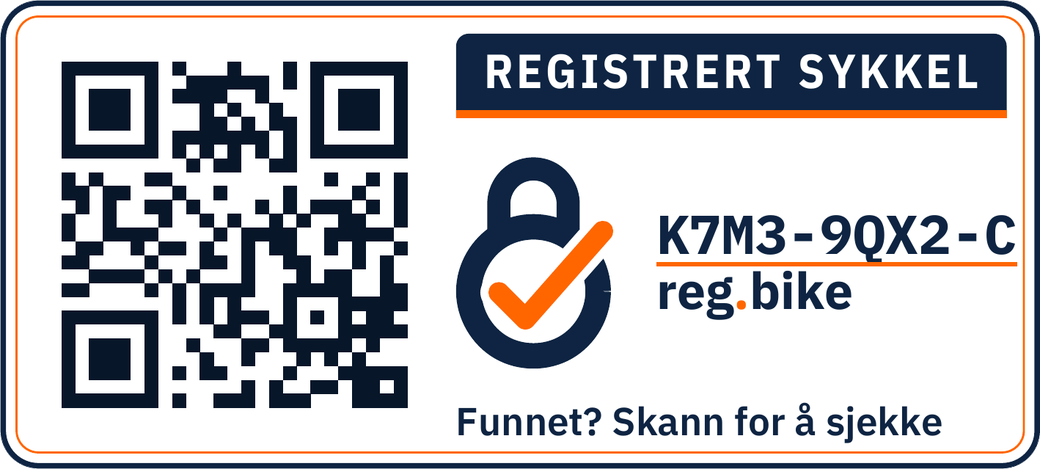
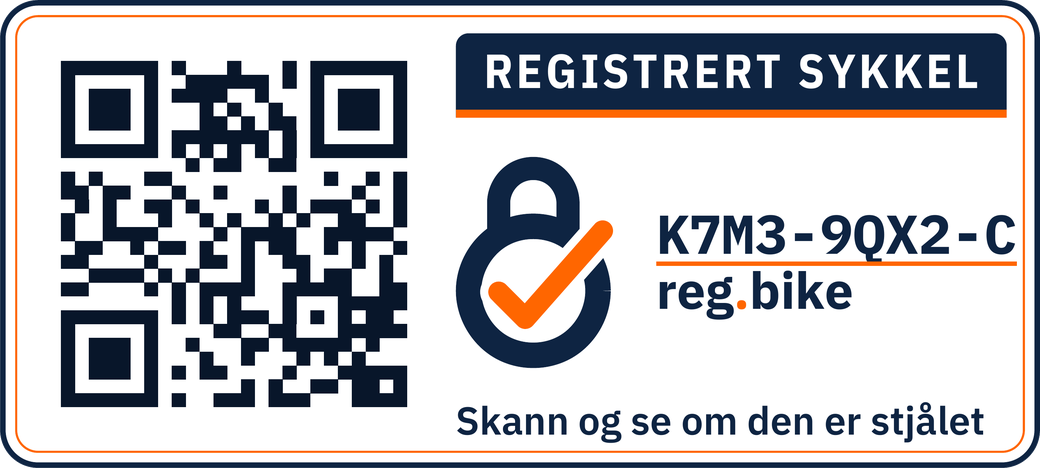
Norwegian copy review: natural bokmål, new sticker texts in images

diff --git a/index.html b/index.html
@@ -6,7 +6,7 @@
 <meta http-equiv="Content-Security-Policy" content="default-src 'none'; img-src 'self' data:; style-src 'self'; font-src 'self'; manifest-src 'self'; base-uri 'none'; form-action 'none'">
 <meta name="referrer" content="strict-origin-when-cross-origin">
 <title>reg.bike – norsk sykkelregister · Kommer snart</title>
-<meta name="description" content="Registrer sykkelen med rammenummer og få et unikt QR-merke. Alle som finner eller vil kjøpe sykkelen, kan sjekke om den er registrert eller meldt stjålet. Kommer snart.">
+<meta name="description" content="Registrer sykkelen og rammenummeret, og få ditt eget QR-merke. Alle som finner sykkelen eller vil kjøpe den, kan sjekke om den er meldt stjålet. Kommer snart.">
 <link rel="canonical" href="https://reg.bike/">
 <link rel="alternate" hreflang="nb" href="https://reg.bike/">
 <link rel="alternate" hreflang="en" href="https://reg.bike/en/">
@@ -15,19 +15,19 @@
 <meta property="og:site_name" content="reg.bike">
 <meta property="og:url" content="https://reg.bike/">
 <meta property="og:title" content="reg.bike – Registrert. Sporbar. Din.">
-<meta property="og:description" content="Registrer sykkelen med rammenummer og få et unikt QR-merke. Alle som finner eller vil kjøpe sykkelen, kan sjekke om den er registrert eller meldt stjålet. Kommer snart.">
+<meta property="og:description" content="Registrer sykkelen og rammenummeret, og få ditt eget QR-merke. Alle som finner sykkelen eller vil kjøpe den, kan sjekke om den er meldt stjålet. Kommer snart.">
 <meta property="og:locale" content="nb_NO">
 <meta property="og:locale:alternate" content="en_GB">
 <meta property="og:image" content="https://reg.bike/og-image.png">
 <meta property="og:image:type" content="image/png">
 <meta property="og:image:width" content="1200">
 <meta property="og:image:height" content="630">
-<meta property="og:image:alt" content="reg.bike-logo og et QR-merke for sykkel med teksten «Registrert. Sporbar. Din.»">
+<meta property="og:image:alt" content="reg.bike-logoen og et QR-merke til sykkelen med teksten «Registrert. Sporbar. Din.»">
 <meta name="twitter:card" content="summary_large_image">
 <meta name="twitter:title" content="reg.bike – Registrert. Sporbar. Din.">
-<meta name="twitter:description" content="Registrer sykkelen med rammenummer og få et unikt QR-merke. Alle som finner eller vil kjøpe sykkelen, kan sjekke om den er registrert eller meldt stjålet. Kommer snart.">
+<meta name="twitter:description" content="Registrer sykkelen og rammenummeret, og få ditt eget QR-merke. Alle som finner sykkelen eller vil kjøpe den, kan sjekke om den er meldt stjålet. Kommer snart.">
 <meta name="twitter:image" content="https://reg.bike/og-image.png">
-<meta name="twitter:image:alt" content="reg.bike-logo og et QR-merke for sykkel med teksten «Registrert. Sporbar. Din.»">
+<meta name="twitter:image:alt" content="reg.bike-logoen og et QR-merke til sykkelen med teksten «Registrert. Sporbar. Din.»">
 <meta name="theme-color" content="#0E2442">
 <link rel="preload" href="fonts/IBMPlexSans-Bold.woff2" as="font" type="font/woff2" crossorigin>
 <link rel="stylesheet" href="style.css">
@@ -37,15 +37,15 @@
 <link rel="manifest" href="site.webmanifest">
 </head>
 <body>
-<a class="skip" href="#main">Hopp til innhold</a>
+<a class="skip" href="#main">Gå til hovedinnholdet</a>
 <header class="top">
   <div class="wrap bar">
     <a class="brand" href="./" aria-label="reg.bike – til forsiden"><img src="img/lockup.svg" alt="reg.bike" width="128" height="35"></a>
     <nav aria-label="Hovedmeny">
      <ul class="nav">
-      <li class="hide-sm"><a href="#slik">Slik virker det</a></li>
+      <li class="hide-sm"><a href="#slik">Slik fungerer det</a></li>
       <li class="hide-sm"><a href="#fordeler">Fordeler</a></li>
-      <li class="hide-sm"><a href="#merket">Merket</a></li>
+      <li class="hide-sm"><a href="#merket">Klistremerket</a></li>
       <li class="hide-sm"><a href="#personvern">Personvern</a></li>
       <li><a class="lang" href="en/" hreflang="en" lang="en" aria-label="Read this page in English">English</a></li>
       <li><a class="btn" href="#beskjed">Få beskjed</a></li>
@@ -59,18 +59,18 @@
     <div>
       <p class="soon">Kommer snart</p>
       <p class="slogan">Registrert. Sporbar. Din.</p>
-      <h1 id="hero-title">Registrer sykkelen din. Få den tilbake.</h1>
-      <p class="lead">reg.bike er et nytt norsk sykkelregister. Registrer rammenummeret, fest et QR-merke på sykkelen, og la alle som finner den eller vurderer å kjøpe den, sjekke på sekunder om den er meldt stjålet.</p>
+      <h1 id="hero-title">Registrer sykkelen. Få den igjen hvis den blir stjålet.</h1>
+      <p class="lead">reg.bike er et nytt norsk sykkelregister. Du registrerer rammenummeret og fester et QR-merke på sykkelen. Da kan alle som finner den eller vil kjøpe den, sjekke på sekunder om den er meldt stjålet.</p>
       <div class="actions">
-        <a class="btn" href="mailto:post@reg.bike?subject=Gi%20meg%20beskjed%20n%C3%A5r%20reg.bike%20lanserer&amp;body=Hei%21%0A%0AGi%20meg%20beskjed%20n%C3%A5r%20jeg%20kan%20registrere%20sykkelen%20min%20p%C3%A5%20reg.bike.%0A%0A"><svg width="20" height="20" viewBox="0 0 20 20" aria-hidden="true" focusable="false"><rect x="2" y="4" width="16" height="12" rx="2" fill="none" stroke="currentColor" stroke-width="1.9"/><path d="M2.8 5.2L10 11l7.2-5.8" fill="none" stroke="currentColor" stroke-width="1.9" stroke-linejoin="round"/></svg>Få beskjed når vi lanserer</a>
-        <a class="btn ghost" href="#slik">Slik virker det</a>
+        <a class="btn" href="mailto:post@reg.bike?subject=Gi%20meg%20beskjed%20n%C3%A5r%20reg.bike%20%C3%A5pner&amp;body=Hei%21%0A%0AGi%20meg%20beskjed%20n%C3%A5r%20jeg%20kan%20registrere%20sykkelen%20min%20p%C3%A5%20reg.bike.%0A%0A"><svg width="20" height="20" viewBox="0 0 20 20" aria-hidden="true" focusable="false"><rect x="2" y="4" width="16" height="12" rx="2" fill="none" stroke="currentColor" stroke-width="1.9"/><path d="M2.8 5.2L10 11l7.2-5.8" fill="none" stroke="currentColor" stroke-width="1.9" stroke-linejoin="round"/></svg>Få beskjed når vi åpner</a>
+        <a class="btn ghost" href="#slik">Slik fungerer det</a>
       </div>
-      <p class="fine">Gratis å registrere. Ingen app – kameraet på mobilen holder.</p>
+      <p class="fine">Gratis å registrere. Du trenger ingen app, bare kameraet på mobilen.</p>
     </div>
     <div class="tube">
       <picture>
         <source type="image/webp" srcset="img/sticker-portrait-30x60-color.webp 1x, img/sticker-portrait-30x60-color@2x.webp 2x">
-        <img src="img/sticker-portrait-30x60-color.png" srcset="img/sticker-portrait-30x60-color@2x.png 2x" width="300" height="621" alt="Eksempel på et stående reg.bike-merke på et seterør: «Tyverisikret registrert», sykkel-ID K7M3-9QX2-C, QR-kode og teksten «Funnet? Skann for å finne eieren»." fetchpriority="high">
+        <img src="img/sticker-portrait-30x60-color.png" srcset="img/sticker-portrait-30x60-color@2x.png 2x" width="300" height="622" alt="Eksempel på et stående reg.bike-merke til seterøret: «Registrert · Sporbar», sykkel-ID K7M3-9QX2-C, QR-kode og teksten «Funnet sykkelen? Skann og kontakt eieren»." fetchpriority="high">
       </picture>
     </div>
   </div>
@@ -78,16 +78,16 @@
 
 <section class="section" id="slik" aria-labelledby="how-title">
   <div class="wrap">
-    <p class="kicker">Slik virker det</p>
-    <h2 id="how-title">Tre steg fra rammenummer til merket sykkel</h2>
-    <p class="intro">Det tar et par minutter å registrere en sykkel. Merket gjør resten.</p>
+    <p class="kicker">Slik fungerer det</p>
+    <h2 id="how-title">Tre steg, så er sykkelen merket</h2>
+    <p class="intro">Registreringen tar et par minutter. Etter det gjør klistremerket jobben.</p>
     <ol class="steps">
       <li class="step"><span class="num" aria-hidden="true">01</span><span class="icon"><svg viewBox="0 0 32 32" aria-hidden="true" focusable="false"><rect x="6" y="4" width="17" height="24" rx="2.5" fill="none" stroke="#FFFFFF" stroke-width="2.2"/><path d="M10.5 10.5h8M10.5 15h8M10.5 19.5h4.5" stroke="#FFFFFF" stroke-width="2.2" stroke-linecap="round"/><path d="M19.5 25.5l7.8-7.8 2.4 2.4-7.8 7.8-3.2.8z" fill="#FF6600"/></svg></span>
-        <h3>Registrer</h3><p>Lag en konto og legg inn merke, modell, farge, rammenummer og bilder av sykkelen.</p></li>
+        <h3>Registrer</h3><p>Opprett en konto og legg inn merke, modell, farge, rammenummer og bilder av sykkelen.</p></li>
       <li class="step"><span class="num" aria-hidden="true">02</span><span class="icon"><svg viewBox="0 0 32 32" aria-hidden="true" focusable="false"><rect x="4" y="4" width="24" height="24" rx="4" fill="none" stroke="#FFFFFF" stroke-width="2.2"/><rect x="8.5" y="8.5" width="6" height="6" fill="#FFFFFF"/><rect x="17.5" y="8.5" width="6" height="6" fill="#FFFFFF"/><rect x="8.5" y="17.5" width="6" height="6" fill="#FFFFFF"/><path d="M17.5 17.5h2.5v2.5h-2.5zM21 21h2.5v2.5H21z" fill="#FF6600"/></svg></span>
-        <h3>Merk sykkelen</h3><p>Du får et unikt QR-merke. Skriv det ut selv, eller bestill slitesterke merker i posten, og fest det på rammen.</p></li>
+        <h3>Merk sykkelen</h3><p>Du får ditt eget QR-merke. Skriv det ut selv, eller bestill slitesterke klistremerker som vi sender i posten. Fest merket på rammen.</p></li>
       <li class="step"><span class="num" aria-hidden="true">03</span><span class="icon"><svg viewBox="0 0 32 32" aria-hidden="true" focusable="false"><rect x="8" y="3" width="16" height="26" rx="3" fill="none" stroke="#FFFFFF" stroke-width="2.2"/><path d="M14 25.5h4" stroke="#FFFFFF" stroke-width="2" stroke-linecap="round"/><path d="M11.5 14.5l3 3 6-6.5" fill="none" stroke="#FF6600" stroke-width="2.8" stroke-linecap="round" stroke-linejoin="round"/></svg></span>
-        <h3>Skann og sjekk</h3><p>Alle kan skanne merket eller søke opp koden og se med en gang om sykkelen er registrert eller meldt stjålet.</p></li>
+        <h3>Skann og sjekk</h3><p>Alle kan skanne merket eller slå opp koden og se med en gang om sykkelen er registrert eller meldt stjålet.</p></li>
     </ol>
   </div>
 </section>
@@ -95,11 +95,11 @@
 <section class="section alt" id="fordeler" aria-labelledby="ben-title">
   <div class="wrap">
     <p class="kicker">Fordeler</p>
-    <h2 id="ben-title">Nyttig for alle som har med sykler å gjøre</h2>
-    <p class="intro">Ett merke på rammen hjelper eieren, den som finner sykkelen og den som vil kjøpe den.</p>
+    <h2 id="ben-title">Til nytte for eier, finner og kjøper</h2>
+    <p class="intro">Ett klistremerke på rammen gjør det enklere for alle tre.</p>
     <div class="cards">
-      <article class="card owner"><h3>For deg som eier sykkelen</h3><ul><li>Rammenummer, bilder og kjennetegn samlet på ett sted</li><li>Meld sykkelen stjålet – alle som skanner den, ser det med en gang</li><li>Merket viser at sykkelen er registrert og sporbar</li><li>Alt klart når du skal anmelde tyveriet til politiet</li></ul></article>
-      <article class="card finder"><h3>For deg som finner en sykkel</h3><ul><li>Skann merket med mobilkameraet – ingen app trengs</li><li>Se om sykkelen er meldt stjålet</li><li>Send eieren en melding gjennom reg.bike uten å se hvem eieren er</li></ul></article>
+      <article class="card owner"><h3>For deg som eier sykkelen</h3><ul><li>Rammenummer, bilder og kjennetegn samlet på ett sted</li><li>Meld sykkelen stjålet – alle som skanner den, ser det med en gang</li><li>Merket viser at sykkelen er registrert og kan spores</li><li>Alle opplysningene er klare når du anmelder tyveriet</li></ul></article>
+      <article class="card finder"><h3>For deg som finner en sykkel</h3><ul><li>Skann merket med mobilkameraet – du trenger ingen app</li><li>Se om sykkelen er meldt stjålet</li><li>Send eieren en melding via reg.bike – eieren forblir anonym</li></ul></article>
       <article class="card buyer"><h3>For deg som kjøper brukt</h3><ul><li>Sjekk koden eller rammenummeret før du betaler</li><li>Se om sykkelen er meldt stjålet</li><li>Tryggere handel for både kjøper og selger</li></ul></article>
     </div>
   </div>
@@ -108,13 +108,13 @@
 <section class="section" id="merket" aria-labelledby="st-title">
   <div class="wrap sticker-grid">
     <div>
-      <p class="kicker">Merket</p>
-      <h2 id="st-title">Et merke tyven ser</h2>
-      <p class="intro">Hver sykkel får sin egen kode. Merket finnes i stående format til seterøret og i liggende format.</p>
+      <p class="kicker">Klistremerket</p>
+      <h2 id="st-title">Et tydelig signal til tyven</h2>
+      <p class="intro">Hver sykkel får sin egen kode. Merket finnes i to formater: stående, som passer på seterøret, og liggende.</p>
       <ul class="facts">
-        <li><svg viewBox="0 0 26 26" aria-hidden="true" focusable="false"><rect x="2" y="2" width="9" height="9" rx="1" fill="none" stroke="#0E2442" stroke-width="2"/><rect x="15" y="2" width="9" height="9" rx="1" fill="none" stroke="#0E2442" stroke-width="2"/><rect x="2" y="15" width="9" height="9" rx="1" fill="none" stroke="#0E2442" stroke-width="2"/><path d="M15 15h3v3h-3zM21 15h3v3h-3zM18 18h3v3h-3zM15 21h3v3h-3zM21 21h3v3h-3z" fill="#FF6600"/></svg><div><strong>Unik kode for hver sykkel</strong>QR-koden går til <span class="url">reg.bike/id/&lt;kode&gt;</span>. Koden står også i klartekst, så den kan tastes inn.</div></li>
-        <li><svg viewBox="0 0 26 26" aria-hidden="true" focusable="false"><path d="M13 2.5C9 8 6 11.8 6 15.6a7 7 0 0 0 14 0C20 11.8 17 8 13 2.5z" fill="none" stroke="#0E2442" stroke-width="2" stroke-linejoin="round"/><path d="M9.8 15.8l2.3 2.3 4.3-4.8" fill="none" stroke="#FF6600" stroke-width="2.4" stroke-linecap="round" stroke-linejoin="round"/></svg><div><strong>Laget for å sitte på en sykkel</strong>Bestill slitesterke merker i posten, eller skriv dem ut gratis hjemme.</div></li>
-        <li><svg viewBox="0 0 26 26" aria-hidden="true" focusable="false"><rect x="6" y="2" width="14" height="22" rx="2.5" fill="none" stroke="#0E2442" stroke-width="2"/><circle cx="13" cy="11" r="3.4" fill="none" stroke="#FF6600" stroke-width="2"/><path d="M11 20.5h4" stroke="#0E2442" stroke-width="2" stroke-linecap="round"/></svg><div><strong>Virker med alle mobilkameraer</strong>Ingen app å laste ned. Den som skanner, ser statusen rett i nettleseren:</div></li>
+        <li><svg viewBox="0 0 26 26" aria-hidden="true" focusable="false"><rect x="2" y="2" width="9" height="9" rx="1" fill="none" stroke="#0E2442" stroke-width="2"/><rect x="15" y="2" width="9" height="9" rx="1" fill="none" stroke="#0E2442" stroke-width="2"/><rect x="2" y="15" width="9" height="9" rx="1" fill="none" stroke="#0E2442" stroke-width="2"/><path d="M15 15h3v3h-3zM21 15h3v3h-3zM18 18h3v3h-3zM15 21h3v3h-3zM21 21h3v3h-3z" fill="#FF6600"/></svg><div><strong>Unik kode for hver sykkel</strong>QR-koden åpner <span class="url">reg.bike/id/&lt;kode&gt;</span>. Koden står også i klartekst, så du kan skrive den inn selv.</div></li>
+        <li><svg viewBox="0 0 26 26" aria-hidden="true" focusable="false"><path d="M13 2.5C9 8 6 11.8 6 15.6a7 7 0 0 0 14 0C20 11.8 17 8 13 2.5z" fill="none" stroke="#0E2442" stroke-width="2" stroke-linejoin="round"/><path d="M9.8 15.8l2.3 2.3 4.3-4.8" fill="none" stroke="#FF6600" stroke-width="2.4" stroke-linecap="round" stroke-linejoin="round"/></svg><div><strong>Bestill eller skriv ut selv</strong>Bestill slitesterke, værbestandige merker fra oss, eller skriv dem ut gratis hjemme.</div></li>
+        <li><svg viewBox="0 0 26 26" aria-hidden="true" focusable="false"><rect x="6" y="2" width="14" height="22" rx="2.5" fill="none" stroke="#0E2442" stroke-width="2"/><circle cx="13" cy="11" r="3.4" fill="none" stroke="#FF6600" stroke-width="2"/><path d="M11 20.5h4" stroke="#0E2442" stroke-width="2" stroke-linecap="round"/></svg><div><strong>Fungerer med alle mobiler</strong>Du trenger ingen app. Statusen vises rett i nettleseren:</div></li>
       </ul>
       <div class="status" role="list">
         <div class="pill ok" role="listitem">✓ Registrert<code>K7M3-9QX2-C</code></div>
@@ -124,15 +124,15 @@
     <div>
       <div class="sticker-show">
         <figure class="portrait">
-          <picture><source type="image/webp" srcset="img/sticker-portrait-30x60-color.webp 1x, img/sticker-portrait-30x60-color@2x.webp 2x"><img src="img/sticker-portrait-30x60-color.png" width="300" height="621" alt="Stående reg.bike-merke med sykkel-ID og QR-kode" decoding="async"></picture>
+          <picture><source type="image/webp" srcset="img/sticker-portrait-30x60-color.webp 1x, img/sticker-portrait-30x60-color@2x.webp 2x"><img src="img/sticker-portrait-30x60-color.png" width="300" height="622" alt="Stående reg.bike-merke med sykkel-ID og QR-kode" decoding="async"></picture>
           <figcaption>Stående, 30&nbsp;×&nbsp;60&nbsp;mm</figcaption>
         </figure>
         <figure class="landscape">
-          <picture><source type="image/webp" srcset="img/sticker-62x29-color.webp 1x, img/sticker-62x29-color@2x.webp 2x"><img src="img/sticker-62x29-color.png" width="520" height="234" alt="Liggende reg.bike-merke med teksten «Registrert sykkel», QR-kode og koden K7M3-9QX2-C" decoding="async"></picture>
+          <picture><source type="image/webp" srcset="img/sticker-62x29-color.webp 1x, img/sticker-62x29-color@2x.webp 2x"><img src="img/sticker-62x29-color.png" width="520" height="234" alt="Liggende reg.bike-merke med teksten «Registrert sykkel», QR-kode, koden K7M3-9QX2-C og «Skann og se om den er stjålet»" decoding="async"></picture>
           <figcaption>Liggende, 62&nbsp;×&nbsp;29&nbsp;mm</figcaption>
         </figure>
       </div>
-      <p class="hint">Eksempel. Koden og utformingen kan endres før lansering.</p>
+      <p class="hint">Eksempel. Kodeformatet og utseendet kan endres før lansering.</p>
     </div>
   </div>
 </section>
@@ -145,7 +145,7 @@
         <p class="kicker">Personvern</p>
         <h2 id="pr-title">Eieren forblir anonym</h2>
         <p><strong>Offentlige sider viser aldri eierens navn, e-post, telefonnummer eller adresse.</strong></p>
-        <ul><li>Den som skanner merket, ser bare sykkelens status og beskrivelse.</li><li>Meldinger fra den som finner sykkelen, sendes videre til deg uten at kontaktinformasjonen din vises.</li><li>Du velger selv om bildene av sykkelen skal vises offentlig.</li><li>Denne nettsiden bruker ingen informasjonskapsler, sporing eller analyseverktøy.</li></ul>
+        <ul><li>Den som skanner merket, ser bare sykkelens status og beskrivelse.</li><li>Meldinger fra den som finner sykkelen, sendes videre til deg uten at kontaktinformasjonen din vises.</li><li>Du velger selv om bildene av sykkelen skal vises offentlig.</li><li>Denne siden bruker ikke informasjonskapsler, sporing eller analyseverktøy.</li></ul>
       </div>
     </div>
   </div>
@@ -154,11 +154,11 @@
 <section class="section" id="beskjed" aria-labelledby="nt-title">
   <div class="wrap">
     <div class="notify">
-      <h2 id="nt-title">Få beskjed når vi lanserer</h2>
+      <h2 id="nt-title">Få beskjed når vi åpner</h2>
       <p>reg.bike er under utvikling. Send oss en e-post, så sier vi fra når du kan registrere sykkelen din.</p>
-      <a class="btn" href="mailto:post@reg.bike?subject=Gi%20meg%20beskjed%20n%C3%A5r%20reg.bike%20lanserer&amp;body=Hei%21%0A%0AGi%20meg%20beskjed%20n%C3%A5r%20jeg%20kan%20registrere%20sykkelen%20min%20p%C3%A5%20reg.bike.%0A%0A"><svg width="20" height="20" viewBox="0 0 20 20" aria-hidden="true" focusable="false"><rect x="2" y="4" width="16" height="12" rx="2" fill="none" stroke="currentColor" stroke-width="1.9"/><path d="M2.8 5.2L10 11l7.2-5.8" fill="none" stroke="currentColor" stroke-width="1.9" stroke-linejoin="round"/></svg>Gi meg beskjed på e-post</a>
+      <a class="btn" href="mailto:post@reg.bike?subject=Gi%20meg%20beskjed%20n%C3%A5r%20reg.bike%20%C3%A5pner&amp;body=Hei%21%0A%0AGi%20meg%20beskjed%20n%C3%A5r%20jeg%20kan%20registrere%20sykkelen%20min%20p%C3%A5%20reg.bike.%0A%0A"><svg width="20" height="20" viewBox="0 0 20 20" aria-hidden="true" focusable="false"><rect x="2" y="4" width="16" height="12" rx="2" fill="none" stroke="currentColor" stroke-width="1.9"/><path d="M2.8 5.2L10 11l7.2-5.8" fill="none" stroke="currentColor" stroke-width="1.9" stroke-linejoin="round"/></svg>Gi meg beskjed på e-post</a>
       <p class="addr">Eller skriv til <a href="mailto:post@reg.bike">post@reg.bike</a></p>
-      <p class="small">Vi bruker e-postadressen din bare til å si fra om lanseringen, og sletter den når du ber om det.</p>
+      <p class="small">Vi bruker bare e-postadressen din til å si fra når vi åpner, og sletter den når du vil.</p>
     </div>
   </div>
 </section>
@@ -167,7 +167,7 @@
   <div class="wrap">
     <div>
       <img src="img/lockup.svg" alt="reg.bike" width="110" height="30" loading="lazy">
-      <p>Norsk sykkelregister under utvikling. reg.bike er en privat tjeneste og ingen offentlig myndighet.</p>
+      <p>Norsk sykkelregister under utvikling. reg.bike er en privat tjeneste, ikke en offentlig myndighet.</p>
       <p>© 2026 reg.bike</p>
     </div>
     <nav aria-label="Bunnmeny">

diff --git a/en/index.html b/en/index.html
@@ -70,7 +70,7 @@
     <div class="tube">
       <picture>
         <source type="image/webp" srcset="../img/sticker-portrait-30x60-color.webp 1x, ../img/sticker-portrait-30x60-color@2x.webp 2x">
-        <img src="../img/sticker-portrait-30x60-color.png" srcset="../img/sticker-portrait-30x60-color@2x.png 2x" width="300" height="621" alt="Example of a portrait reg.bike sticker on a seat tube, showing bike ID K7M3-9QX2-C, a QR code and the text “Found it? Scan to find the owner” in Norwegian." fetchpriority="high">
+        <img src="../img/sticker-portrait-30x60-color.png" srcset="../img/sticker-portrait-30x60-color@2x.png 2x" width="300" height="622" alt="Example of a portrait reg.bike sticker on a seat tube, showing bike ID K7M3-9QX2-C, a QR code and the text “Found this bike? Scan to contact the owner” in Norwegian." fetchpriority="high">
       </picture>
     </div>
   </div>
@@ -124,11 +124,11 @@
     <div>
       <div class="sticker-show">
         <figure class="portrait">
-          <picture><source type="image/webp" srcset="../img/sticker-portrait-30x60-color.webp 1x, ../img/sticker-portrait-30x60-color@2x.webp 2x"><img src="../img/sticker-portrait-30x60-color.png" width="300" height="621" alt="Portrait reg.bike sticker with bike ID and QR code" decoding="async"></picture>
+          <picture><source type="image/webp" srcset="../img/sticker-portrait-30x60-color.webp 1x, ../img/sticker-portrait-30x60-color@2x.webp 2x"><img src="../img/sticker-portrait-30x60-color.png" width="300" height="622" alt="Portrait reg.bike sticker with bike ID and QR code" decoding="async"></picture>
           <figcaption>Portrait, 30&nbsp;×&nbsp;60&nbsp;mm</figcaption>
         </figure>
         <figure class="landscape">
-          <picture><source type="image/webp" srcset="../img/sticker-62x29-color.webp 1x, ../img/sticker-62x29-color@2x.webp 2x"><img src="../img/sticker-62x29-color.png" width="520" height="234" alt="Landscape reg.bike sticker reading “Registered bike” in Norwegian, with a QR code and the code K7M3-9QX2-C" decoding="async"></picture>
+          <picture><source type="image/webp" srcset="../img/sticker-62x29-color.webp 1x, ../img/sticker-62x29-color@2x.webp 2x"><img src="../img/sticker-62x29-color.png" width="520" height="234" alt="Landscape reg.bike sticker reading “Registered bike” in Norwegian, with a QR code, the code K7M3-9QX2-C and “Scan to see if it&#x27;s stolen”" decoding="async"></picture>
           <figcaption>Landscape, 62&nbsp;×&nbsp;29&nbsp;mm</figcaption>
         </figure>
       </div>

diff --git a/404.html b/404.html
@@ -22,11 +22,11 @@
   <div class="box">
     <p class="code">404</p>
     <h1>Siden finnes ikke (ennå)</h1>
-    <p><strong>Skannet du et reg.bike-merke?</strong> Registeret åpner snart. Da vises sykkelens status her når merket skannes.</p>
+    <p><strong>Skannet du et reg.bike-merke?</strong> Registeret åpner snart. Da ser du sykkelens status her når du skanner merket.</p>
     <p lang="en" class="hint">Page not found. Scanned a reg.bike sticker? The registry opens soon, and scanning will then show the bike's status here.</p>
     <div class="actions">
       <a class="btn" href="/">Til forsiden</a>
-      <a class="btn secondary" href="/#beskjed">Få beskjed ved lansering</a>
+      <a class="btn secondary" href="/#beskjed">Få beskjed når vi åpner</a>
     </div>
   </div>
 </main>

diff --git a/src/build.py b/src/build.py
@@ -30,53 +30,53 @@ NB = dict(
     lang="nb", locale="nb_NO", alt_locale="en_GB", prefix="", url=f"{SITE}/", alt_url=f"{SITE}/en/",
     og_image=f"{SITE}/og-image.png",
     title="reg.bike – norsk sykkelregister · Kommer snart",
-    desc="Registrer sykkelen med rammenummer og få et unikt QR-merke. Alle som finner eller vil kjøpe sykkelen, kan sjekke om den er registrert eller meldt stjålet. Kommer snart.",
+    desc="Registrer sykkelen og rammenummeret, og få ditt eget QR-merke. Alle som finner sykkelen eller vil kjøpe den, kan sjekke om den er meldt stjålet. Kommer snart.",
     og_title="reg.bike – Registrert. Sporbar. Din.",
-    og_alt="reg.bike-logo og et QR-merke for sykkel med teksten «Registrert. Sporbar. Din.»",
-    skip="Hopp til innhold", home_label="reg.bike – til forsiden", nav_label="Hovedmeny",
-    nav=[("#slik", "Slik virker det"), ("#fordeler", "Fordeler"), ("#merket", "Merket"), ("#personvern", "Personvern")],
+    og_alt="reg.bike-logoen og et QR-merke til sykkelen med teksten «Registrert. Sporbar. Din.»",
+    skip="Gå til hovedinnholdet", home_label="reg.bike – til forsiden", nav_label="Hovedmeny",
+    nav=[("#slik", "Slik fungerer det"), ("#fordeler", "Fordeler"), ("#merket", "Klistremerket"), ("#personvern", "Personvern")],
     other_lang="English", other_lang_code="en", other_href="en/", other_label="Read this page in English",
     nav_cta="Få beskjed",
     soon="Kommer snart", slogan="Registrert. Sporbar. Din.",
-    h1="Registrer sykkelen din. Få den tilbake.",
-    lead="reg.bike er et nytt norsk sykkelregister. Registrer rammenummeret, fest et QR-merke på sykkelen, og la alle som finner den eller vurderer å kjøpe den, sjekke på sekunder om den er meldt stjålet.",
-    cta="Få beskjed når vi lanserer", cta2="Slik virker det",
-    fine="Gratis å registrere. Ingen app – kameraet på mobilen holder.",
-    hero_img_alt="Eksempel på et stående reg.bike-merke på et seterør: «Tyverisikret registrert», sykkel-ID K7M3-9QX2-C, QR-kode og teksten «Funnet? Skann for å finne eieren».",
-    how_k="Slik virker det", how_h="Tre steg fra rammenummer til merket sykkel",
-    how_i="Det tar et par minutter å registrere en sykkel. Merket gjør resten.",
-    steps=[(ICON_REGISTER, "Registrer", "Lag en konto og legg inn merke, modell, farge, rammenummer og bilder av sykkelen."),
-           (ICON_STICKER, "Merk sykkelen", "Du får et unikt QR-merke. Skriv det ut selv, eller bestill slitesterke merker i posten, og fest det på rammen."),
-           (ICON_SCAN, "Skann og sjekk", "Alle kan skanne merket eller søke opp koden og se med en gang om sykkelen er registrert eller meldt stjålet.")],
-    ben_k="Fordeler", ben_h="Nyttig for alle som har med sykler å gjøre",
-    ben_i="Ett merke på rammen hjelper eieren, den som finner sykkelen og den som vil kjøpe den.",
-    cards=[("owner", "For deg som eier sykkelen", ["Rammenummer, bilder og kjennetegn samlet på ett sted", "Meld sykkelen stjålet – alle som skanner den, ser det med en gang", "Merket viser at sykkelen er registrert og sporbar", "Alt klart når du skal anmelde tyveriet til politiet"]),
-           ("finder", "For deg som finner en sykkel", ["Skann merket med mobilkameraet – ingen app trengs", "Se om sykkelen er meldt stjålet", "Send eieren en melding gjennom reg.bike uten å se hvem eieren er"]),
+    h1="Registrer sykkelen. Få den igjen hvis den blir stjålet.",
+    lead="reg.bike er et nytt norsk sykkelregister. Du registrerer rammenummeret og fester et QR-merke på sykkelen. Da kan alle som finner den eller vil kjøpe den, sjekke på sekunder om den er meldt stjålet.",
+    cta="Få beskjed når vi åpner", cta2="Slik fungerer det",
+    fine="Gratis å registrere. Du trenger ingen app, bare kameraet på mobilen.",
+    hero_img_alt="Eksempel på et stående reg.bike-merke til seterøret: «Registrert · Sporbar», sykkel-ID K7M3-9QX2-C, QR-kode og teksten «Funnet sykkelen? Skann og kontakt eieren».",
+    how_k="Slik fungerer det", how_h="Tre steg, så er sykkelen merket",
+    how_i="Registreringen tar et par minutter. Etter det gjør klistremerket jobben.",
+    steps=[(ICON_REGISTER, "Registrer", "Opprett en konto og legg inn merke, modell, farge, rammenummer og bilder av sykkelen."),
+           (ICON_STICKER, "Merk sykkelen", "Du får ditt eget QR-merke. Skriv det ut selv, eller bestill slitesterke klistremerker som vi sender i posten. Fest merket på rammen."),
+           (ICON_SCAN, "Skann og sjekk", "Alle kan skanne merket eller slå opp koden og se med en gang om sykkelen er registrert eller meldt stjålet.")],
+    ben_k="Fordeler", ben_h="Til nytte for eier, finner og kjøper",
+    ben_i="Ett klistremerke på rammen gjør det enklere for alle tre.",
+    cards=[("owner", "For deg som eier sykkelen", ["Rammenummer, bilder og kjennetegn samlet på ett sted", "Meld sykkelen stjålet – alle som skanner den, ser det med en gang", "Merket viser at sykkelen er registrert og kan spores", "Alle opplysningene er klare når du anmelder tyveriet"]),
+           ("finder", "For deg som finner en sykkel", ["Skann merket med mobilkameraet – du trenger ingen app", "Se om sykkelen er meldt stjålet", "Send eieren en melding via reg.bike – eieren forblir anonym"]),
            ("buyer", "For deg som kjøper brukt", ["Sjekk koden eller rammenummeret før du betaler", "Se om sykkelen er meldt stjålet", "Tryggere handel for både kjøper og selger"])],
-    st_k="Merket", st_h="Et merke tyven ser",
-    st_i="Hver sykkel får sin egen kode. Merket finnes i stående format til seterøret og i liggende format.",
+    st_k="Klistremerket", st_h="Et tydelig signal til tyven",
+    st_i="Hver sykkel får sin egen kode. Merket finnes i to formater: stående, som passer på seterøret, og liggende.",
     st_cap1="Stående, 30&nbsp;×&nbsp;60&nbsp;mm", st_cap2="Liggende, 62&nbsp;×&nbsp;29&nbsp;mm",
     st_alt1="Stående reg.bike-merke med sykkel-ID og QR-kode",
-    st_alt2="Liggende reg.bike-merke med teksten «Registrert sykkel», QR-kode og koden K7M3-9QX2-C",
-    st_note="Eksempel. Koden og utformingen kan endres før lansering.",
-    facts=[(FACT_QR, "Unik kode for hver sykkel", "QR-koden går til <span class=\"url\">reg.bike/id/&lt;kode&gt;</span>. Koden står også i klartekst, så den kan tastes inn."),
-           (FACT_DROP, "Laget for å sitte på en sykkel", "Bestill slitesterke merker i posten, eller skriv dem ut gratis hjemme."),
-           (FACT_PHONE, "Virker med alle mobilkameraer", "Ingen app å laste ned. Den som skanner, ser statusen rett i nettleseren:")],
+    st_alt2="Liggende reg.bike-merke med teksten «Registrert sykkel», QR-kode, koden K7M3-9QX2-C og «Skann og se om den er stjålet»",
+    st_note="Eksempel. Kodeformatet og utseendet kan endres før lansering.",
+    facts=[(FACT_QR, "Unik kode for hver sykkel", "QR-koden åpner <span class=\"url\">reg.bike/id/&lt;kode&gt;</span>. Koden står også i klartekst, så du kan skrive den inn selv."),
+           (FACT_DROP, "Bestill eller skriv ut selv", "Bestill slitesterke, værbestandige merker fra oss, eller skriv dem ut gratis hjemme."),
+           (FACT_PHONE, "Fungerer med alle mobiler", "Du trenger ingen app. Statusen vises rett i nettleseren:")],
     pill_ok="✓ Registrert", pill_bad="! Meldt stjålet",
     pr_k="Personvern", pr_h="Eieren forblir anonym",
     pr_lead="Offentlige sider viser aldri eierens navn, e-post, telefonnummer eller adresse.",
     pr_list=["Den som skanner merket, ser bare sykkelens status og beskrivelse.",
              "Meldinger fra den som finner sykkelen, sendes videre til deg uten at kontaktinformasjonen din vises.",
              "Du velger selv om bildene av sykkelen skal vises offentlig.",
-             "Denne nettsiden bruker ingen informasjonskapsler, sporing eller analyseverktøy."],
-    nt_h="Få beskjed når vi lanserer",
+             "Denne siden bruker ikke informasjonskapsler, sporing eller analyseverktøy."],
+    nt_h="Få beskjed når vi åpner",
     nt_p="reg.bike er under utvikling. Send oss en e-post, så sier vi fra når du kan registrere sykkelen din.",
     nt_btn="Gi meg beskjed på e-post", nt_or="Eller skriv til",
-    nt_small="Vi bruker e-postadressen din bare til å si fra om lanseringen, og sletter den når du ber om det.",
-    mail_subject="Gi meg beskjed når reg.bike lanserer",
+    nt_small="Vi bruker bare e-postadressen din til å si fra når vi åpner, og sletter den når du vil.",
+    mail_subject="Gi meg beskjed når reg.bike åpner",
     mail_body="Hei!\n\nGi meg beskjed når jeg kan registrere sykkelen min på reg.bike.\n\n",
     ft_1="Norsk sykkelregister under utvikling.",
-    ft_2="reg.bike er en privat tjeneste og ingen offentlig myndighet.",
+    ft_2="reg.bike er en privat tjeneste, ikke en offentlig myndighet.",
     ft_nav="Bunnmeny", ft_contact="Kontakt",
 )
 EN = dict(
@@ -95,7 +95,7 @@ EN = dict(
     lead="reg.bike is a new Norwegian bike registry. Register the frame number, put a QR sticker on your bike, and let anyone who finds it or is thinking of buying it check in seconds whether it has been reported stolen.",
     cta="Tell me when you launch", cta2="How it works",
     fine="Free to register. No app – a phone camera is all it takes.",
-    hero_img_alt="Example of a portrait reg.bike sticker on a seat tube, showing bike ID K7M3-9QX2-C, a QR code and the text “Found it? Scan to find the owner” in Norwegian.",
+    hero_img_alt="Example of a portrait reg.bike sticker on a seat tube, showing bike ID K7M3-9QX2-C, a QR code and the text “Found this bike? Scan to contact the owner” in Norwegian.",
     how_k="How it works", how_h="Three steps from frame number to marked bike",
     how_i="Registering a bike takes a couple of minutes. The sticker does the rest.",
     steps=[(ICON_REGISTER, "Register", "Create an account and add the make, model, colour, frame number and photos of your bike."),
@@ -110,7 +110,7 @@ EN = dict(
     st_i="Every bike gets its own code. The sticker comes in a portrait format for the seat tube and a landscape format.",
     st_cap1="Portrait, 30&nbsp;×&nbsp;60&nbsp;mm", st_cap2="Landscape, 62&nbsp;×&nbsp;29&nbsp;mm",
     st_alt1="Portrait reg.bike sticker with bike ID and QR code",
-    st_alt2="Landscape reg.bike sticker reading “Registered bike” in Norwegian, with a QR code and the code K7M3-9QX2-C",
+    st_alt2="Landscape reg.bike sticker reading “Registered bike” in Norwegian, with a QR code, the code K7M3-9QX2-C and “Scan to see if it's stolen”",
     st_note="Example only. The code format and design may change before launch.",
     facts=[(FACT_QR, "A unique code for every bike", "The QR code opens <span class=\"url\">reg.bike/id/&lt;code&gt;</span>. The code is printed in plain text too, so it can be typed in."),
            (FACT_DROP, "Made to live on a bike", "Order durable stickers by post, or print them at home for free."),
@@ -221,7 +221,7 @@ def page(p):
     <div class="tube">
       <picture>
         <source type="image/webp" srcset="{a}img/sticker-portrait-30x60-color.webp 1x, {a}img/sticker-portrait-30x60-color@2x.webp 2x">
-        <img src="{a}img/sticker-portrait-30x60-color.png" srcset="{a}img/sticker-portrait-30x60-color@2x.png 2x" width="300" height="621" alt="{html.escape(p["hero_img_alt"])}" fetchpriority="high">
+        <img src="{a}img/sticker-portrait-30x60-color.png" srcset="{a}img/sticker-portrait-30x60-color@2x.png 2x" width="300" height="622" alt="{html.escape(p["hero_img_alt"])}" fetchpriority="high">
       </picture>
     </div>
   </div>
@@ -266,7 +266,7 @@ def page(p):
     <div>
       <div class="sticker-show">
         <figure class="portrait">
-          <picture><source type="image/webp" srcset="{a}img/sticker-portrait-30x60-color.webp 1x, {a}img/sticker-portrait-30x60-color@2x.webp 2x"><img src="{a}img/sticker-portrait-30x60-color.png" width="300" height="621" alt="{html.escape(p["st_alt1"])}" decoding="async"></picture>
+          <picture><source type="image/webp" srcset="{a}img/sticker-portrait-30x60-color.webp 1x, {a}img/sticker-portrait-30x60-color@2x.webp 2x"><img src="{a}img/sticker-portrait-30x60-color.png" width="300" height="622" alt="{html.escape(p["st_alt1"])}" decoding="async"></picture>
           <figcaption>{p["st_cap1"]}</figcaption>
         </figure>
         <figure class="landscape">
@@ -339,11 +339,11 @@ def notfound():
   <div class="box">
     <p class="code">404</p>
     <h1>Siden finnes ikke (ennå)</h1>
-    <p><strong>Skannet du et reg.bike-merke?</strong> Registeret åpner snart. Da vises sykkelens status her når merket skannes.</p>
+    <p><strong>Skannet du et reg.bike-merke?</strong> Registeret åpner snart. Da ser du sykkelens status her når du skanner merket.</p>
     <p lang="en" class="hint">Page not found. Scanned a reg.bike sticker? The registry opens soon, and scanning will then show the bike's status here.</p>
     <div class="actions">
       <a class="btn" href="/">Til forsiden</a>
-      <a class="btn secondary" href="/#beskjed">Få beskjed ved lansering</a>
+      <a class="btn secondary" href="/#beskjed">Få beskjed når vi åpner</a>
     </div>
   </div>
 </main>
